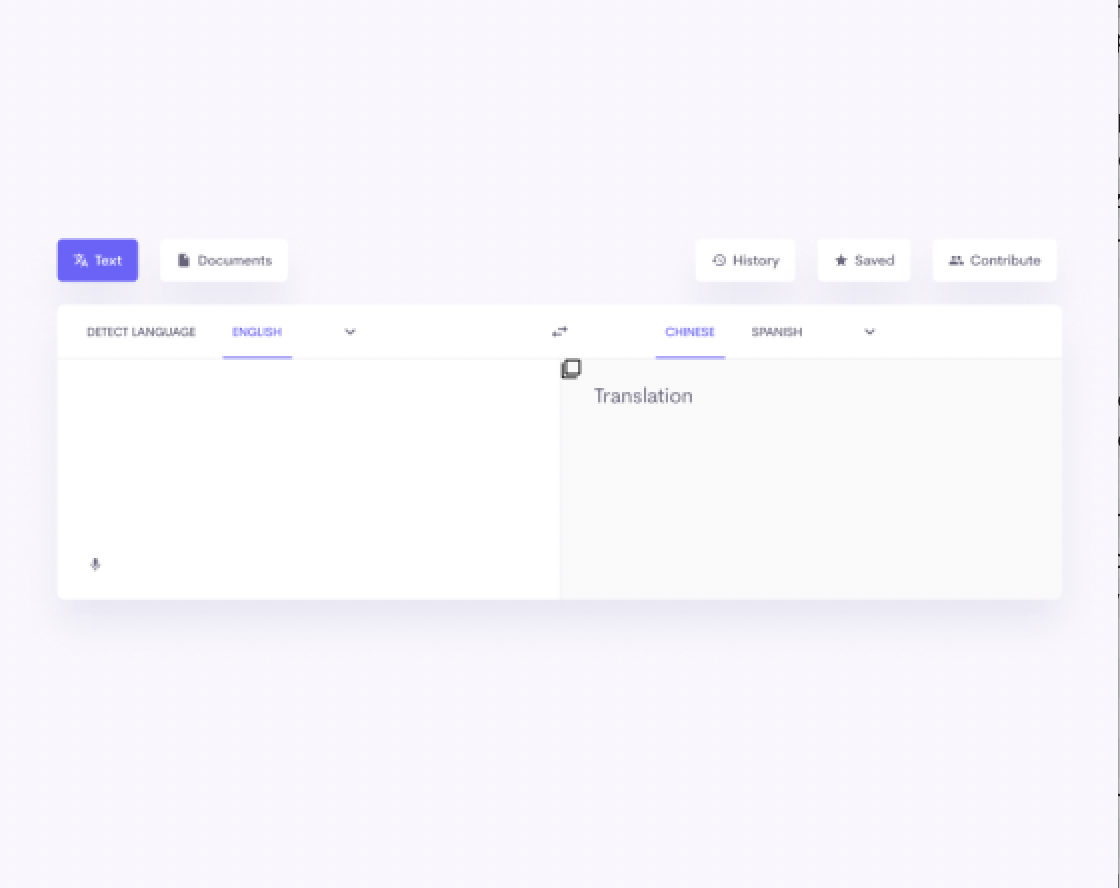
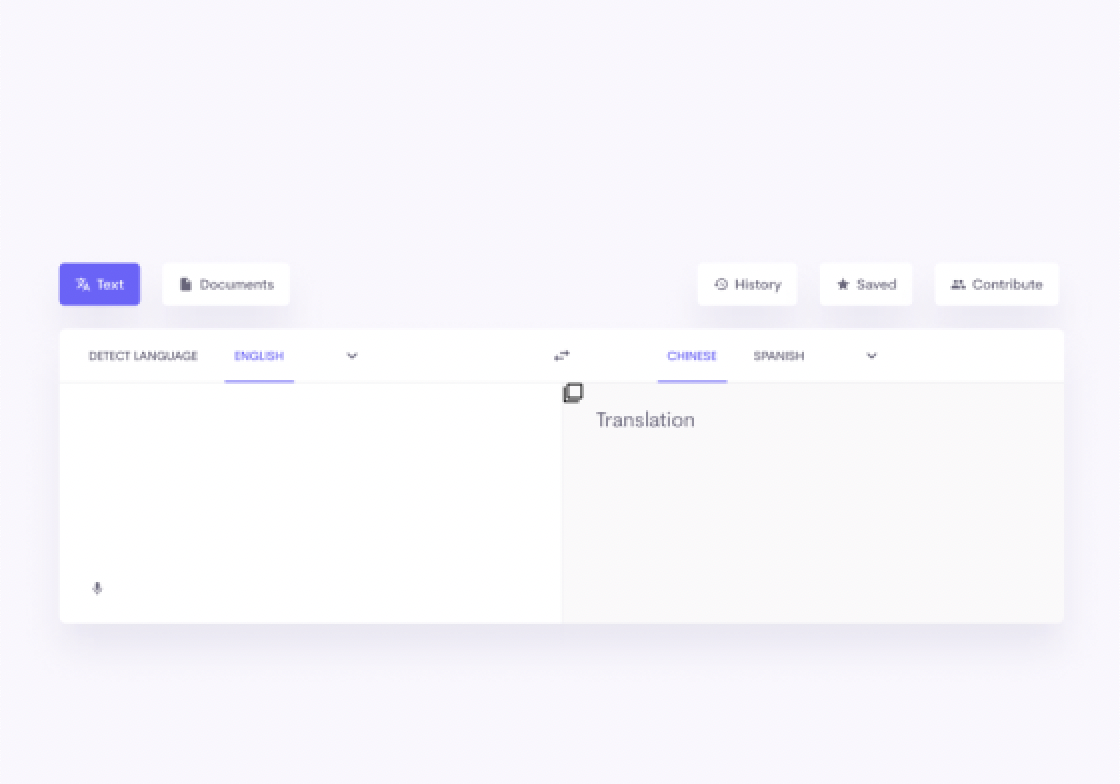
Resized photo screenshots and works on spacing
Shifted images to centre more

diff --git a/work.html b/work.html
@@ -22,7 +22,6 @@
       href="https://fonts.googleapis.com/css2?family=Cormorant+Unicase:wght@300;400&family=Quicksand:wght@300;400&display=swap"
       rel="stylesheet"
     />
-    <link rel="stylesheet" href="/styles/portfolio.css" />
     <script
       src="https://kit.fontawesome.com/2b304aa893.js"
       crossorigin="anonymous"
@@ -32,6 +31,7 @@
       integrity="sha384-pprn3073KE6tl6bjs2QrFaJGz5/SUsLqktiwsUTF55Jfv3qYSDhgCecCxMW52nD2"
       crossorigin="anonymous"
     ></script>
+    <link rel="stylesheet" href="/styles/portfolio.css" />
   </head>
   <body>
     <div class="content-container container">
@@ -39,7 +39,7 @@
         <h1 class="text-center mb-5">See what I've been working on</h1>
 
         <div class="row">
-          <div class="col-md-6">
+          <div class="col-md-6 mb-4 column-container">
             <div>
               <img
                 src="/images/project-SP-landing-page.png"
@@ -50,7 +50,7 @@
               <p class="text-center text-muted">Built with HTML and CSS</p>
             </div>
           </div>
-          <div class="col-md-6">
+          <div class="col-md-6 mb-4">
             <div>
               <img
                 src="/images/project-weather.png"
@@ -63,26 +63,28 @@
               </p>
             </div>
           </div>
-          <div class="col-md-6">
+          <div class="col-md-6 mb-4">
             <div>
               <img
                 src="/images/project-dictionary.png"
-                alt="Landing page preview"
-                class="img-fluid work-img mb-4"
+                alt="Prospective preview of dictionary project"
+                width="636"
+                height="608"
+                class="img-fluid work-img mb-4 img-style"
               />
-              <h3 class="text-center">The Shelf Perspective- Landing page</h3>
-              <p class="text-center text-muted">Built with HTML and CSS</p>
+              <h3 class="text-center">Dictionary Project</h3>
+              <p class="text-center text-muted">Coming Soon</p>
             </div>
           </div>
-          <div class="col-md-6">
+          <div class="col-md-6 mb-4">
             <div>
               <img
                 src="/images/project-translation.png"
-                alt="Landing page preview"
-                class="img-fluid work-img mb-4"
+                alt="Prospective preview of translation application"
+                class="img-fluid work-img mb-4 img-style"
               />
-              <h3 class="text-center">The Shelf Perspective- Landing page</h3>
-              <p class="text-center text-muted">Built with HTML and CSS</p>
+              <h3 class="text-center">Translation Application</h3>
+              <p class="text-center text-muted">Coming Soon</p>
             </div>
           </div>
         </div>

diff --git a/styles/portfolio.css b/styles/portfolio.css
@@ -81,11 +81,11 @@ p {
 
 .content h3 {
   font-size: 20px;
+  font-weight: bold;
 }
 
 .content img {
   border-radius: 30px;
-  margin: 0 20px;
 }
 
 .content p {
@@ -141,23 +141,28 @@ p {
     text-align: center;
     margin: 0;
   }
-  .button-wrap {
-    margin-top: 30px;
-  }
-  .tagline {
-    margin: 10px;
-  }
-
   .content {
     text-align: center;
   }
   .content h1 {
     font-size: 48px;
+    margin-bottom: 20px;
   }
   .content p {
     font-size: 16px;
   }
   .content img {
-    margin: 50px 0;
+    margin: 40px 0;
+  }
+
+  .column-container {
+    margin-bottom: 0;
+  }
+
+  .button-wrap {
+    margin-top: 30px;
+  }
+  .tagline {
+    margin: 10px;
   }
 }
